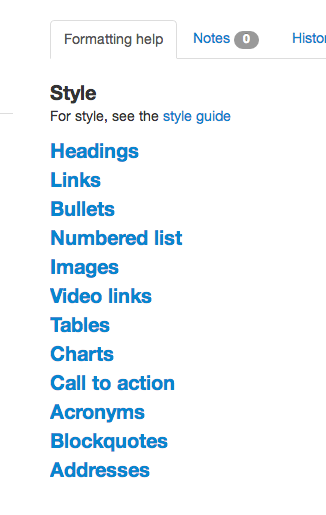
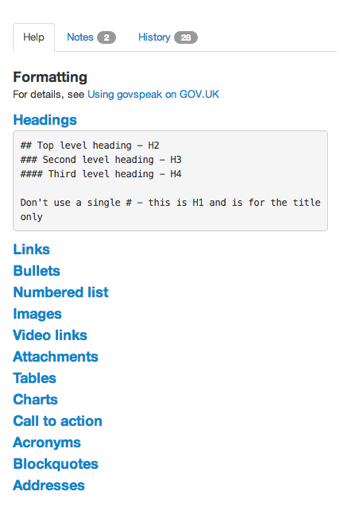
Changes to the Markdown guide
Changes to the Markdown guide including a new image to show numbered
lists.

Changed region(s): [[0.0307, 0.0932, 0.9509, 0.9631], [0.184, 0.0311, 1.0, 0.1243], [0.0613, 0.0621, 0.1227, 0.0932]]

diff --git a/creating-documents/markdown.md b/creating-documents/markdown.md
@@ -7,23 +7,23 @@ Please note this manual is a draft version and will be revised shortly.
 
 # Use Markdown for headers, links, bullets, tables, acronyms and blockquotes
 
-Publisher needs ‘Markdown’ commands to format the content. Instead of using an editor tool, you can type simple Markdown commands within the copy to create the formatting you want. 
+Publisher uses [Markdown](http://daringfireball.net/projects/markdown/) with [Govspeak](https://github.com/alphagov/govspeak) extensions; plain text formats that are converted to HTML on GOV.UK.  Instead of a What You See Is What You Get (WYSIWYG) editor you use Markdown in the copy to create the HTML you want. 
 
-On every editing interface, you’ll see a ‘how to’ guide to Markdown like the one below. It’s under the tab called ‘Formatting help’. You can cut and paste the text if you get stuck.
+When editing a document in Publisher you will see a help guide to Markdown, like the one below. It’s on the right under the ‘Help’ tab in the ‘Formatting’ section. You can cut and paste the example text if you get stuck.
 
 ![Markdown 1](markdown-1.png)
    
-### Headers and sub-headers
+### Headings and sub-headings
 
-*  The title and summary are styled automatically, don't use Markdown in either of these boxes.
-*  In the body, use 2 hashtags (\#\#) for a section header and 3 or 4 hashtags for sub-headers. These are your H2s, H3s and H4s.
-*  Don't use 1 hashtag or you will get a title heading in the middle of your document.
+*  The document title and summary are styled automatically, don't use Markdown in either of these boxes.
+*  In the document body, use 2 hashtags (\#\#) for a section heading and 3 or 4 hashtags for sub-headings. These are your H2s, H3s and H4s.
+*  Don't use 1 hashtag, or you will get a title heading in the middle of your document.
 
 ![Markdown 2](markdown-2.png) 
 
-*  Use the headers in sequence, ie an H3 needs to be preceded by an H2 and an H4 needs an H3.
+*  Use the headings in sequence, ie an H3 needs to be preceded by an H2 and an H4 needs an H3.
 
-The [Create a document](http://alphagov.github.io/inside-government-admin-guide/creating-documents/create-a-new-doc.html) section has more about titles, summaries and sub-headers.
+The [Create a document](http://alphagov.github.io/inside-government-admin-guide/creating-documents/create-a-new-doc.html) section has more about titles, summaries and sub-headings.
 
 
 ### Links
@@ -36,7 +36,7 @@ The [Create a document](http://alphagov.github.io/inside-government-admin-guide/
 The [Add links](http://alphagov.github.io/inside-government-admin-guide/creating-documents/add-links.html) section explains how to create internal and external links. 
 
 
-### Bullets
+### Bulleted lists
 
 *  Use asterisks (\*) to make bullets (hyphens also work).
 
@@ -46,7 +46,20 @@ The [Add links](http://alphagov.github.io/inside-government-admin-guide/creating
 *  You need 1 empty line space before the bullets start, and 1 at the end.
 *  Sub-items need an indent of 2 spaces.
 
-See the [style guide, section 2.5](https://www.gov.uk/designprinciples/styleguide#bullet-points-and-steps) to check how to punctuate bullets.
+See the [style guide](https://www.gov.uk/design-principles/style-guide/style-points#style-bullets) to check how to punctuate bullets.
+
+### Numbered lists
+
+*  Use numbers followed by a full stop (1.) to make numbered lists. The order of the numbers doesn't matter, as long as they are a numbers.
+
+![Markdown 8](markdown-8.png)
+
+*  Make sure there is 1 space after the full stop and that all the numbers line up. 
+*  You need 1 empty line space before the numbers start, and 1 at the end.
+*  Sub-items need an indent of 2 spaces.
+*  To manually number items use a backslash before the full stop (1\\. 3\\. 5\\.).
+
+See the [style guide](https://www.gov.uk/design-principles/style-guide/style-points#style-steps) to check how to punctuate numbered lists.
 
 
 ### Tables
@@ -54,9 +67,11 @@ See the [style guide, section 2.5](https://www.gov.uk/designprinciples/styleguid
 *  Use dividers (\|) to make tables.
 *  You need 1 empty line space before the table starts and 1 at the end.
 *  Make sure every row has the same number of dividers - use \| \| for an empty cell.
+
 ![Markdown 5](markdown-5.png)
+
 *  Use \|---\|---\| as the second row to create a bold header row at the top.
-*  No Markdown within a table, but you can use html if you need links in your table.
+*  No Markdown within a table, but you can use HTML if you need links in your table.
 
 
 ### Call to action
@@ -66,7 +81,7 @@ See the [style guide, section 2.5](https://www.gov.uk/designprinciples/styleguid
 
 ![Markdown 6](markdown-6.png)
 
-See the [style guide, section 2.15](https://www.gov.uk/designprinciples/styleguide#links) for more advice about writing links.
+See the [style guide](https://www.gov.uk/design-principles/style-guide/style-points#style-links) for more advice about using links.
 
 
 ### Acronyms
@@ -101,7 +116,7 @@ As the Prime Minister said:
 *  Leave 1 empty line space above and below your blockquote.
 *  Do not use blockquotes in speeches: blockquotes are for news and case studies only. 
 
-For more advice on using blockquotes on GOV.UK, see the [style guide: news](https://www.gov.uk/designprinciples/insidegovernment#news) and [style guide: case studies](https://www.gov.uk/designprinciples/insidegovernment#case-studies).
+For more advice on using blockquotes on GOV.UK, see the [style guide: news](https://www.gov.uk/design-principles/style-guide/news-stories-and-press-releases#style-guide) and [style guide: case studies](https://www.gov.uk/design-principles/style-guide/case-studies#style-guide).
 
 
 ### Images and attachments
@@ -109,4 +124,3 @@ For more advice on using blockquotes on GOV.UK, see the [style guide: news](http
 These are covered in the sections [Add images](http://alphagov.github.io/inside-government-admin-guide/creating-documents/add-images.html) and [Add attachments](http://alphagov.github.io/inside-government-admin-guide/creating-documents/add-attachments.html)
 
 [< Back to contents](http://alphagov.github.io/inside-government-admin-guide/)
-
